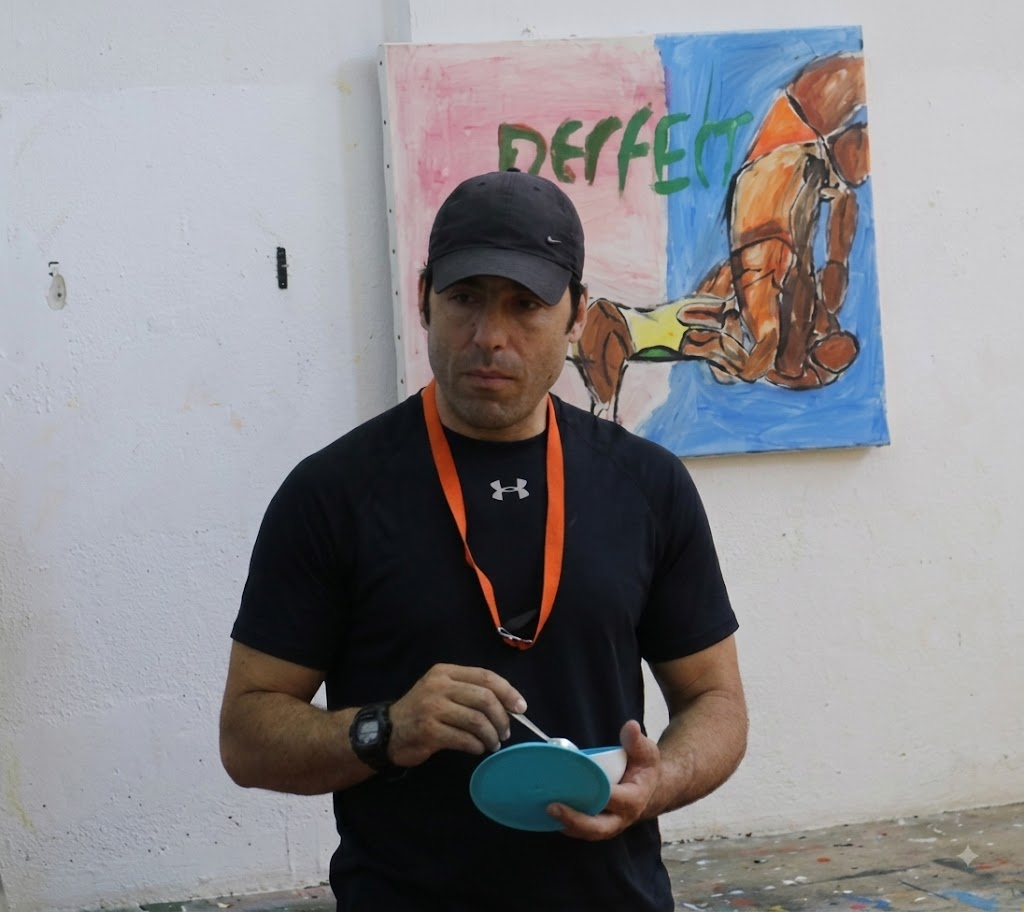
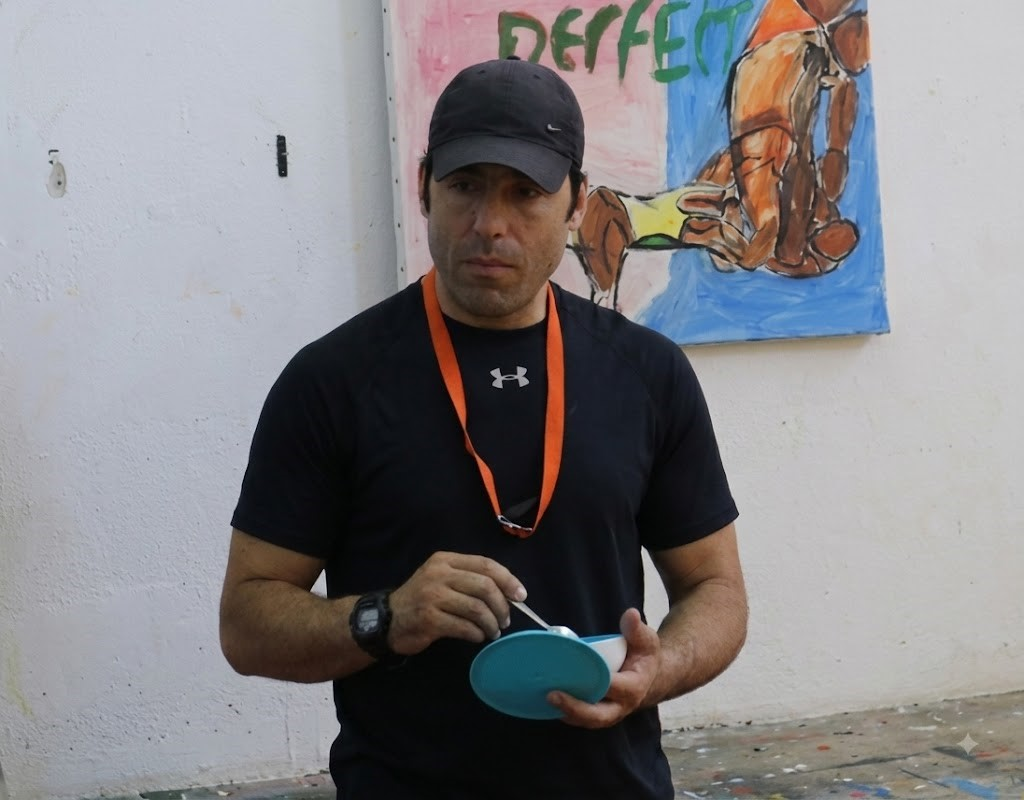
Put real gym photos in the About slideshow and speed it up
Replaces the test placeholders with sh1, sh2, sh7, sh9 and sh11. Hold
time drops from 5s to 2.5s and the crossfade from 1.2s to 0.7s, so it
moves at roughly twice the pace.

sh3-sh6, sh8 and sh10 are left out for now. Each shows identifiable
children as the main subject, which needs parental consent before it
goes on a public site.

diff --git a/index.html b/index.html
@@ -11,7 +11,7 @@
 <link href="https://fonts.googleapis.com/css2?family=Montserrat:wght@600;700;800&family=Nunito:wght@400;600;700&display=swap" rel="stylesheet">
 <!-- Bump ?v= whenever style.css or script.js changes so browsers fetch the new file
      instead of serving a cached copy. -->
-<link rel="stylesheet" href="css/style.css?v=6">
+<link rel="stylesheet" href="css/style.css?v=7">
 </head>
 <body>
 
@@ -37,7 +37,7 @@
 
 <section id="home" class="hero">
   <div class="hero-watermark" aria-hidden="true">
-    <img src="images/logo_changed.png?v=1" alt="">
+    <img src="images/sh9.jpg" alt="">
   </div>
   <div class="container hero-content">
     <h1>TROJANS</h1>
@@ -50,11 +50,15 @@
 </section>
 
 <section id="about" class="section about">
+  <!-- sh3-sh6, sh8 and sh10 are held back on purpose: each shows identifiable
+       children, which needs parental consent before going on a public site.
+       Add them here once that consent is in hand. -->
   <div class="about-slideshow" id="about-slideshow" aria-hidden="true">
-    <img src="images/test1.PNG" alt="" onerror="this.classList.add('missing')">
-    <img src="images/test2.PNG" alt="" onerror="this.classList.add('missing')">
-    <img src="images/logo.png" alt="" onerror="this.classList.add('missing')">
-    <img src="images/1eae0be0-da87-4973-ab29-4eb44f252c45.jfif" alt="" onerror="this.classList.add('missing')">
+    <img src="images/sh9.jpg" alt="" onerror="this.classList.add('missing')">
+    <img src="images/sh11.PNG" alt="" onerror="this.classList.add('missing')">
+    <img src="images/sh1.jpg" alt="" onerror="this.classList.add('missing')">
+    <img src="images/sh2.jpg" alt="" onerror="this.classList.add('missing')">
+    <img src="images/sh7.jpg" alt="" onerror="this.classList.add('missing')">
   </div>
   <div class="about-scrim" aria-hidden="true"></div>
   <div class="container">
@@ -115,7 +119,7 @@
 
       <article class="coach-card">
         <div class="coach-media">
-          <img class="coach-photo" src="images/coach-venizelos.png" alt="Coach Venizelos" onerror="this.classList.add('missing')">
+          <img class="coach-photo" src="images/coach-venizelos.jpg" alt="Coach Venizelos" onerror="this.classList.add('missing')">
           <span class="coach-fallback" aria-hidden="true">V</span>
           <div class="coach-overlay">
             <h3>Venizelos</h3>
@@ -351,6 +355,6 @@
   </div>
 </footer>
 
-<script src="js/script.js?v=6"></script>
+<script src="js/script.js?v=7"></script>
 </body>
 </html>

diff --git a/privacy.html b/privacy.html
@@ -9,7 +9,7 @@
 <link rel="preconnect" href="https://fonts.googleapis.com">
 <link rel="preconnect" href="https://fonts.gstatic.com" crossorigin>
 <link href="https://fonts.googleapis.com/css2?family=Montserrat:wght@600;700;800&family=Nunito:wght@400;600;700&display=swap" rel="stylesheet">
-<link rel="stylesheet" href="css/style.css?v=6">
+<link rel="stylesheet" href="css/style.css?v=7">
 </head>
 <body>
 
@@ -130,6 +130,6 @@
   </div>
 </footer>
 
-<script src="js/script.js?v=6"></script>
+<script src="js/script.js?v=7"></script>
 </body>
 </html>

diff --git a/css/style.css b/css/style.css
@@ -273,7 +273,8 @@ a:hover { text-decoration: underline; }
   height: 100%;
   object-fit: cover;
   opacity: 0;
-  transition: opacity 1.2s ease;
+  /* Kept well under the 2.5s hold so each photo settles before the next fade */
+  transition: opacity .7s ease;
 }
 .about-slideshow img.is-active { opacity: 1; }
 .about-slideshow img.missing { display: none; }

diff --git a/js/script.js b/js/script.js
@@ -47,7 +47,7 @@ if (aboutSlideshow) {
       slides[i].classList.remove('is-active');
       i = (i + 1) % slides.length;
       slides[i].classList.add('is-active');
-    }, 5000);
+    }, 2500);
   };
 
   // Wait for the images to settle so we only cycle the ones that actually loaded
